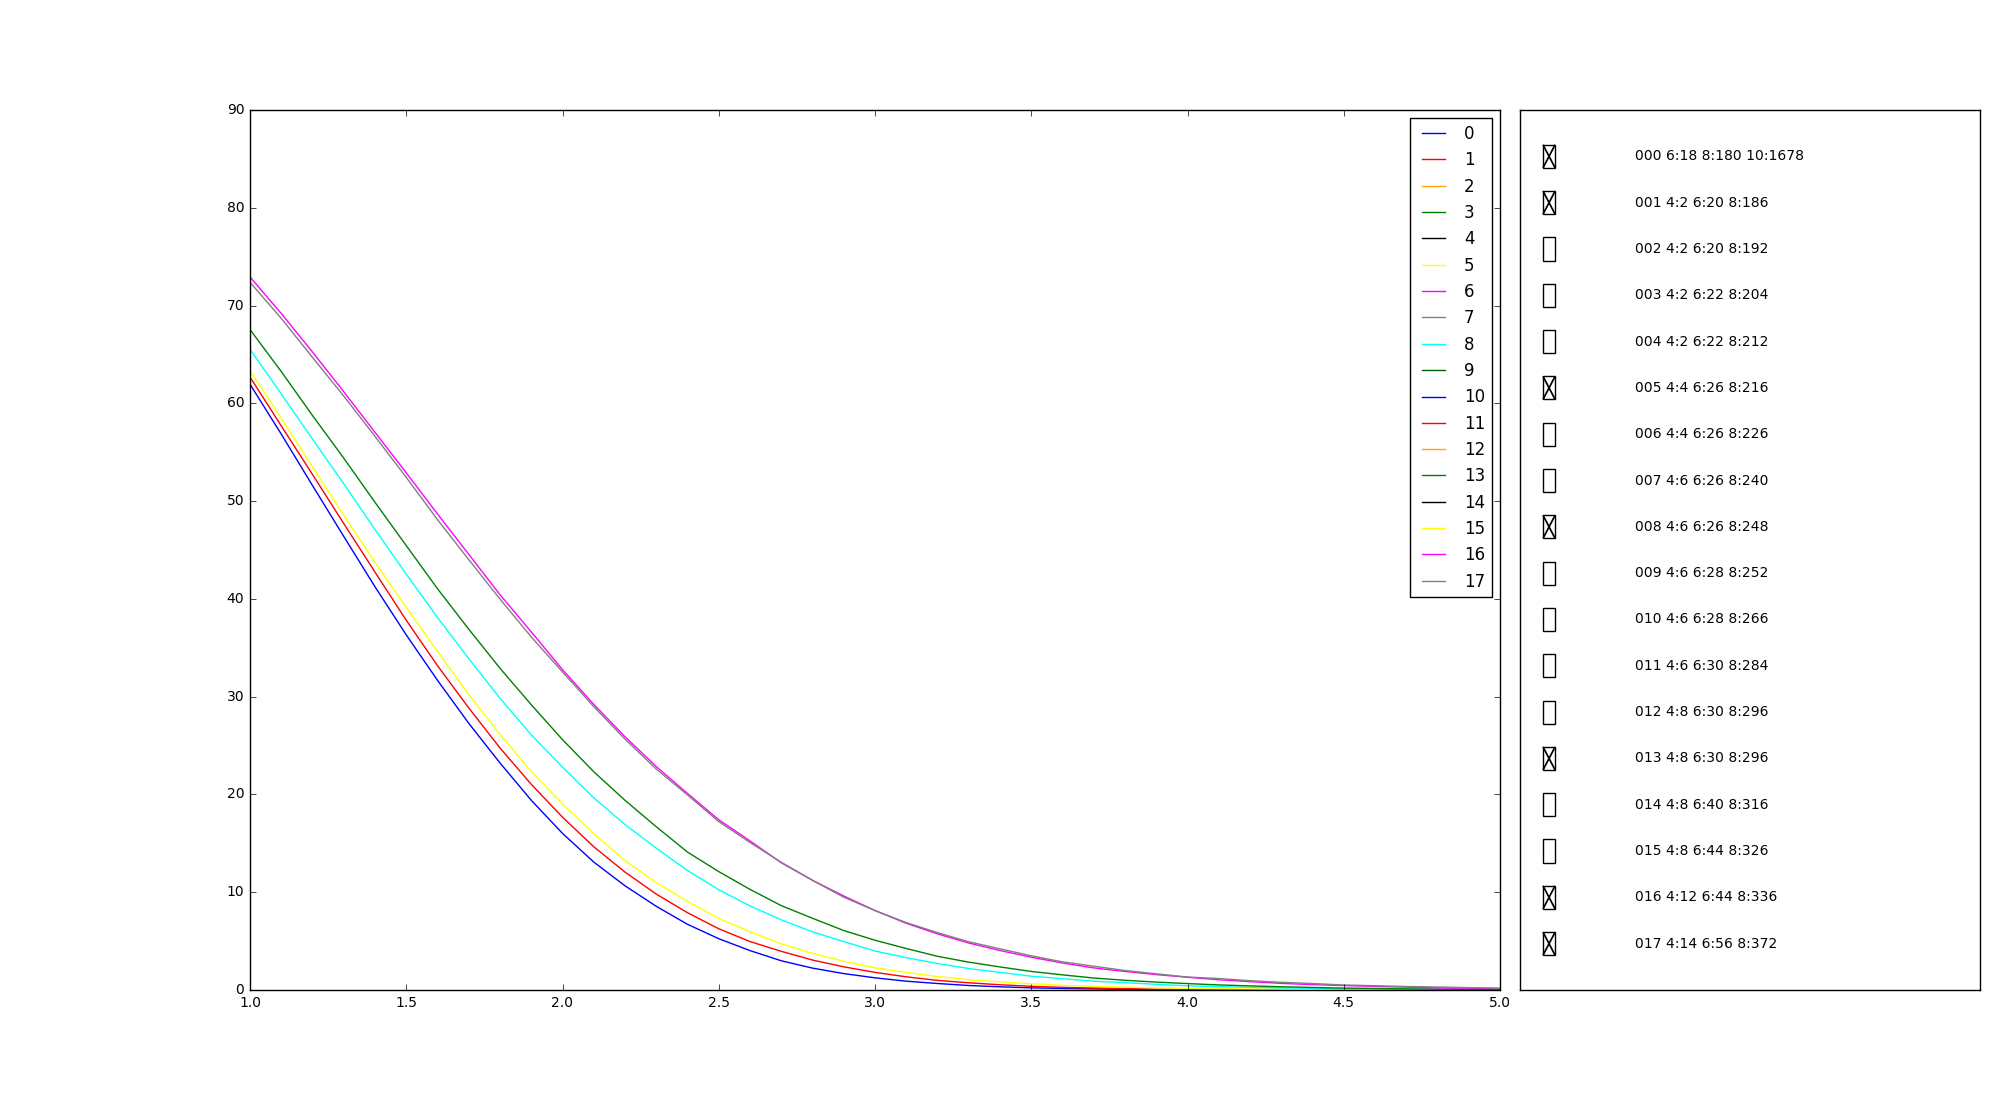
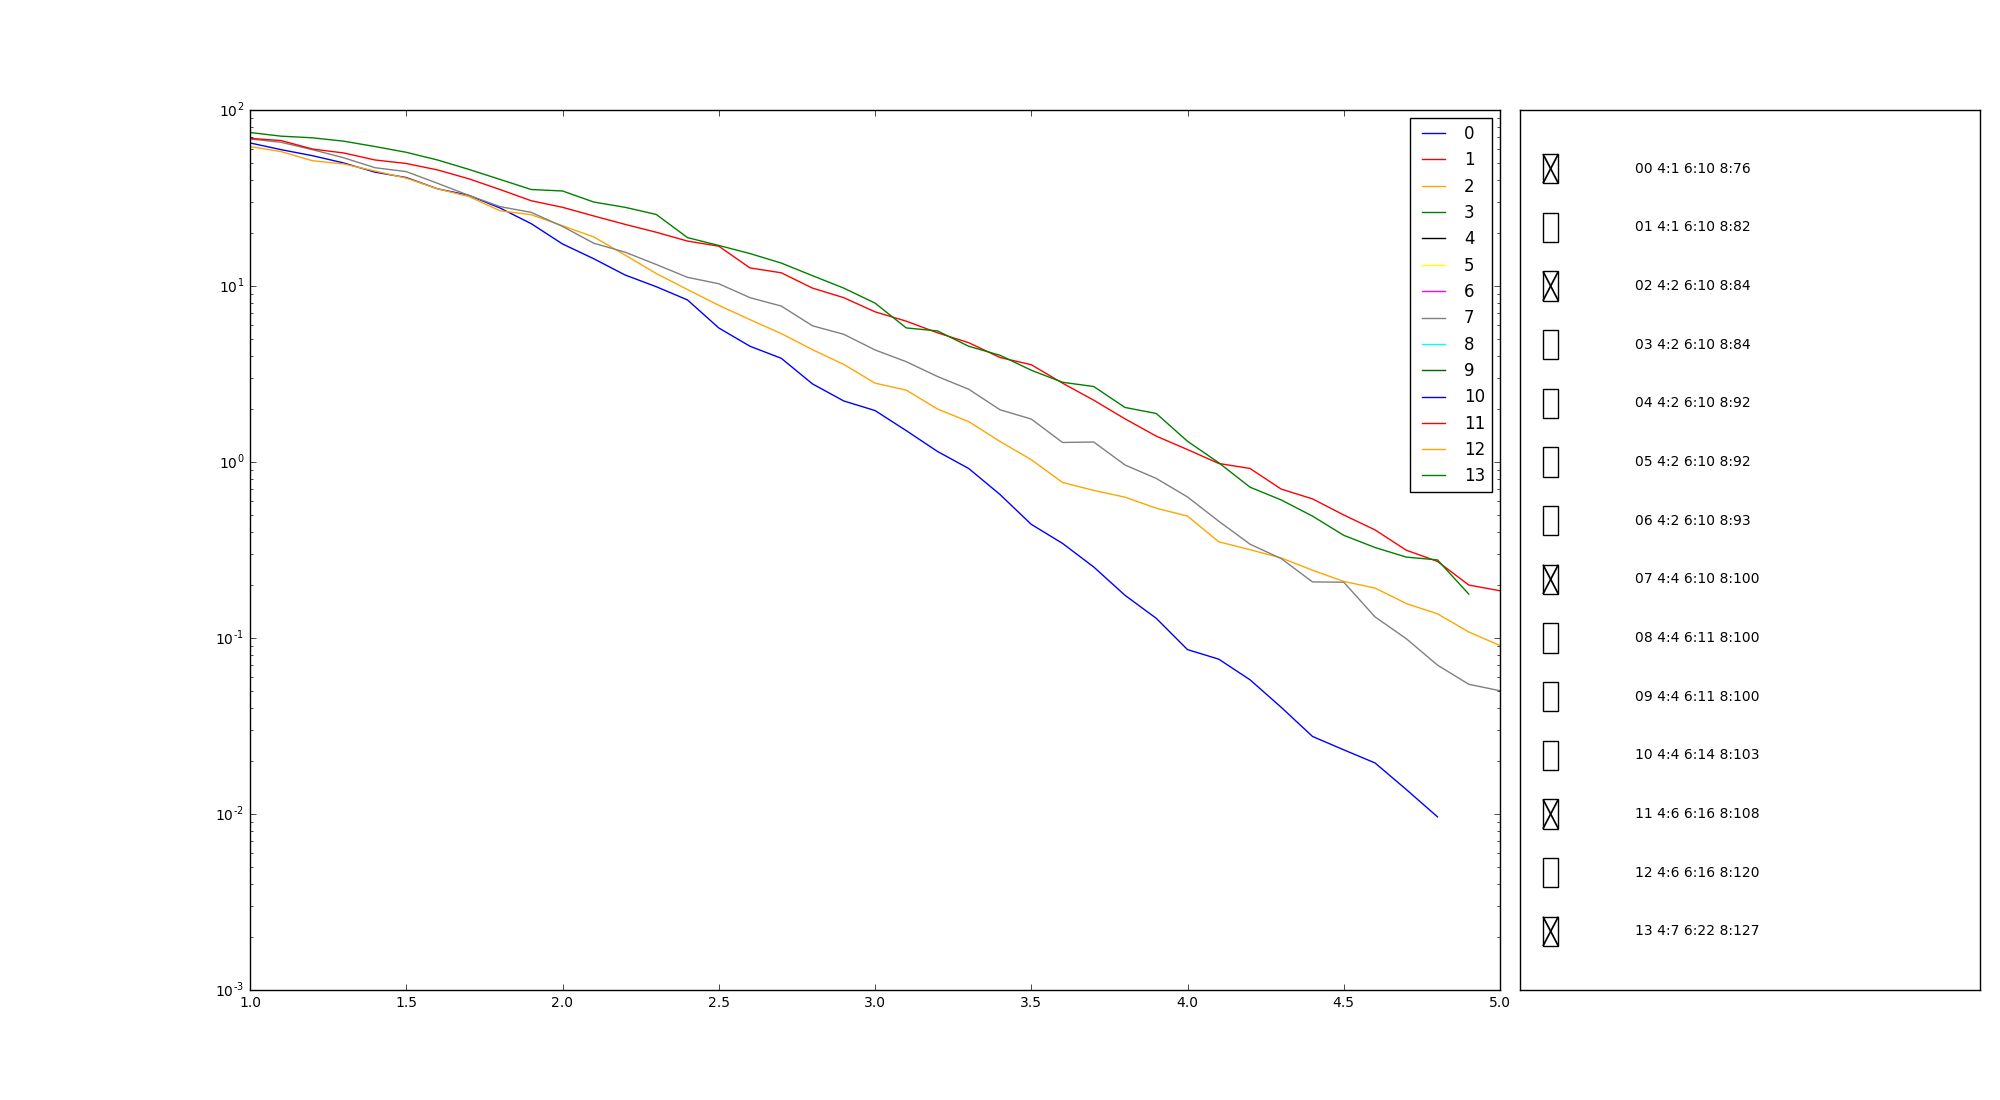
fix

diff --git a/scripts/spectrumSNRRelation.py b/scripts/spectrumSNRRelation.py
@@ -12,7 +12,7 @@ matplotlib.rcParams['figure.figsize'] = 20, 11
 def read_ssv(filename):
     return pd.read_csv(filename, delim_whitespace=True, header=1, index_col=False)
 
-reportName = 'RandomBase5_19AtLeast6_19'
+reportName = 'RandomBase5_19'
 report = read_ssv('../reports/' + reportName + 'Report.txt')
 spectrum = read_ssv('../reports/' + reportName + 'Spectrum.txt')
 report = pd.concat([report['Filename'].str.extract('b5_10_\d{4}_(?P<test>\d*)', expand=True),
